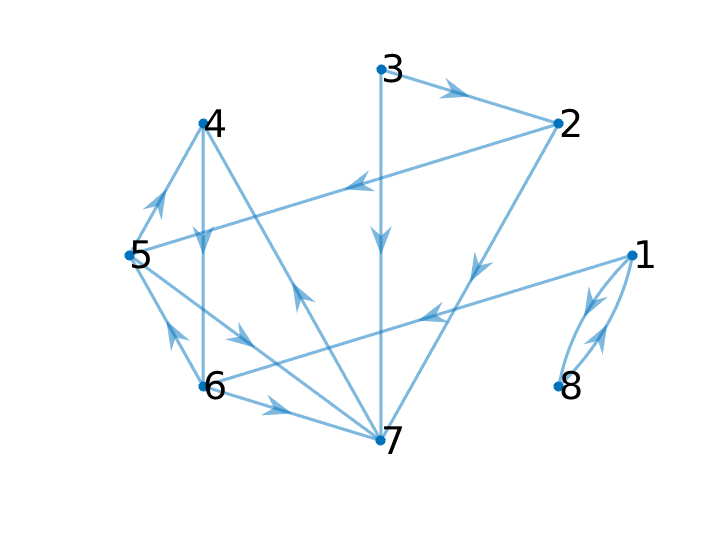
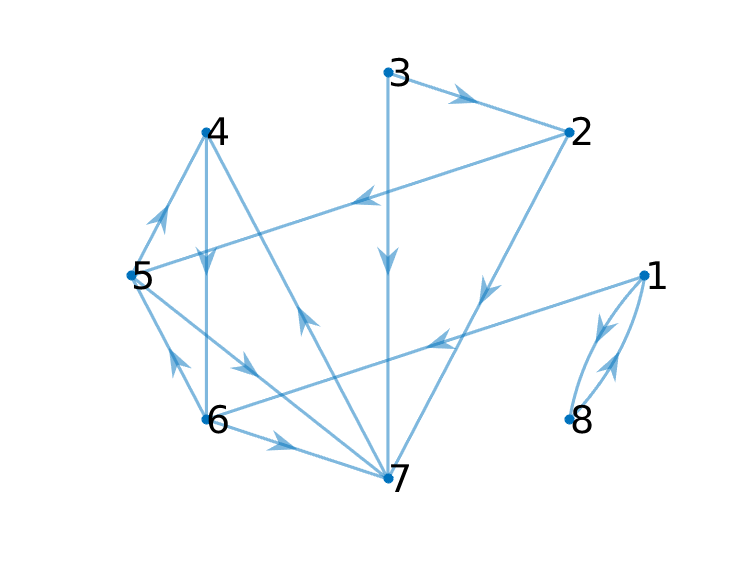
added plot of graph, and higlight path of optimal solution

diff --git a/plot_interactions.m b/plot_interactions.m
@@ -1,0 +1,65 @@
+close
+load neighbours.mat
+n_friends=length(neighbours);
+F=zeros(n_friends);
+for i=1:n_friends
+    F(i,neighbours{i})=1;% this is the network of social frienship
+end
+NF=~F;% network of who does not know who
+F=F-diag(diag(F));
+NF=NF-diag(diag(NF));
+
+G=digraph(F);
+p=plot(G,'Layout','circle');
+p.NodeLabel = {};
+p.ArrowSize=22;
+p.LineWidth=1.5;
+% Custom labels
+hold on
+names=string(1:n_friends);
+for i=1:length(names)
+    text(p.XData(i), p.YData(i), names(i), 'FontSize', 18);
+end
+ax=gca();
+ax.Visible= 'off';
+tightfig()
+saveas(gcf,'friendship.png')
+hold off
+
+G1=digraph(NF);
+p1=plot(G1,'Layout','circle');
+p1.NodeLabel = {};
+p1.ArrowSize=22;
+p1.LineWidth=1.5;
+% Custom labels
+hold on
+names=string(1:n_friends);
+for i=1:length(names)
+    text(p1.XData(i), p1.YData(i), names(i), 'FontSize', 18);
+end
+ax=gca();
+ax.Visible= 'off';
+tightfig()
+print(gcf,'non-friendship','-dpng')
+hold off
+
+
+flippedNF=NF';
+G2=digraph(flippedNF);
+p2=plot(G2,'Layout','circle');
+p2.NodeLabel = {};
+p2.ArrowSize=22;
+p2.LineWidth=1.5;
+highlight(p2,[5     ,6     ,4     ,7,2,3,1,8],'NodeColor','green','EdgeColor','red')
+% Custom labels
+hold on
+names=string(1:n_friends);
+for i=1:length(names)
+    text(p2.XData(i), p2.YData(i), names(i), 'FontSize', 18);
+end
+
+ax=gca();
+ax.Visible= 'off';
+tightfig()
+print(gcf,'flipped_non-friendship','-dpng')
+hold off

diff --git a/create_social_interactions.m b/create_social_interactions.m
@@ -20,36 +20,10 @@ NF=NF-diag(diag(NF));
 
 G=digraph(F);
 p=plot(G,'Layout','circle');
-p.NodeLabel = {};
-p.ArrowSize=22;
-p.LineWidth=1.5;
-% Custom labels
-hold on
-names=string(1:n_friends);
-for i=1:length(names)
-    text(p.XData(i), p.YData(i), names(i), 'FontSize', 18);
-end
-ax=gca();
-ax.Visible= 'off';
-tightfig()
-saveas(gcf,'friendship.png')
-hold off
 
+figure()
 G2=digraph(NF);
 p2=plot(G2,'Layout','circle');
-p2.NodeLabel = {};
-p2.ArrowSize=22;
-p2.LineWidth=1.5;
-% Custom labels
-hold on
-names=string(1:n_friends);
-for i=1:length(names)
-    text(p2.XData(i), p2.YData(i), names(i), 'FontSize', 18);
-end
-ax=gca();
-ax.Visible= 'off';
-tightfig()
-print(gcf,'non-friendship','-dpng')
 end
 
 

diff --git a/pso.m b/pso.m
@@ -4,7 +4,7 @@
 clear
 ff = 'make_presents'; % Objective Function
 % Initializing variables
-popsize = 100; % Size of the swarm
+popsize = 20; % Size of the swarm
 n_friends=8;
 npar=2*n_friends-1; % number of optimization variables
 maxit = 1000; % Maximum number of iterations
